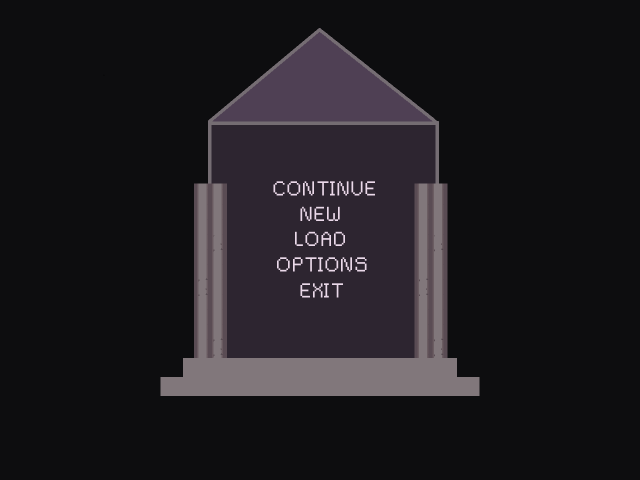
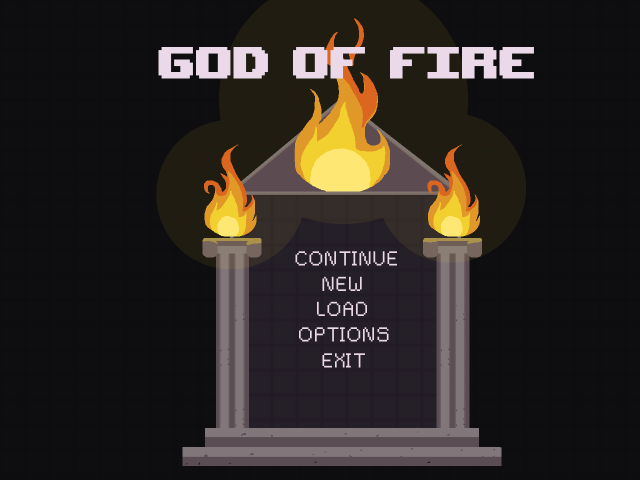
Added new menu

Changed region(s): [[0.25, 0.0625, 0.8438, 0.9688], [0.5312, 0.0312, 0.5625, 0.0625]]

diff --git a/God of Fire/src/com/monochromatic/god_of_fire/state/MenuState.java b/God of Fire/src/com/monochromatic/god_of_fire/state/MenuState.java
@@ -35,11 +35,11 @@ public class MenuState  extends BasicGameState {
 	public void init(GameContainer gc, StateBasedGame sbg) 
 		throws SlickException {
 			menu = new Image("resources/menu_screen.png");
-			continueButton=new Rectangle(265,178,120,20);
-			newButton=new Rectangle(295,205,50,20);
-			loadButton=new Rectangle(290,230,60,20);
-			optionsButton=new Rectangle(270,255,100,20);
-			exitButton=new Rectangle(295,280,55,20);
+			continueButton=new Rectangle(265,255,120,20);
+			newButton=new Rectangle(295,282,50,20);
+			loadButton=new Rectangle(290,307,60,20);
+			optionsButton=new Rectangle(270,332,100,20);
+			exitButton=new Rectangle(295,357,55,20);
 			
 			
 			cursor=new Circle(0,0,1/2);
@@ -48,15 +48,13 @@ public class MenuState  extends BasicGameState {
 
 	public void render(GameContainer gc, StateBasedGame sbg, Graphics g) 
 		throws SlickException {
-			g.drawImage(menu, 0, 0);	//attaches menu image
+			g.drawImage(menu, -20, 5);	//attaches menu image
 			g.setColor(Color.white);
 			if(hoverContinue) g.draw(continueButton);
 			if(hoverNew) g.draw(newButton);
 			if(hoverLoad) g.draw(loadButton);
 			if(hoverOptions) g.draw(optionsButton);
 			if(hoverExit) g.draw(exitButton);
-			
-			g.drawString("God of Fire",270,100);
 	}
 
 	public void update(GameContainer gc, StateBasedGame sbg, int delta) 
